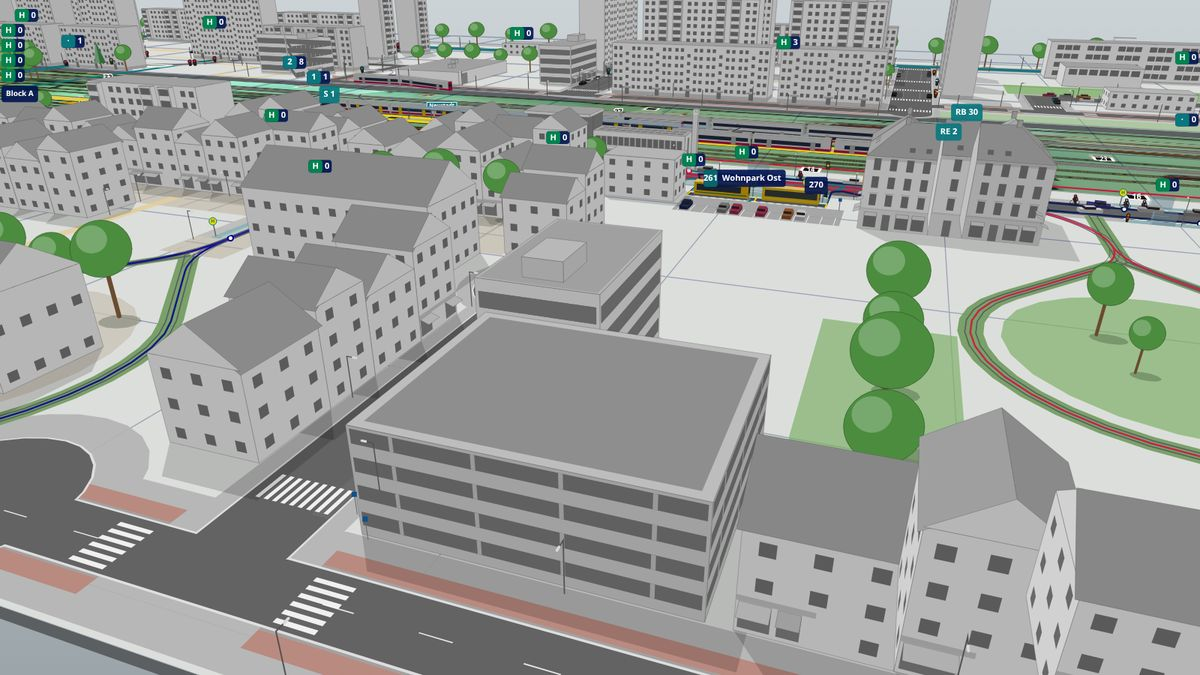
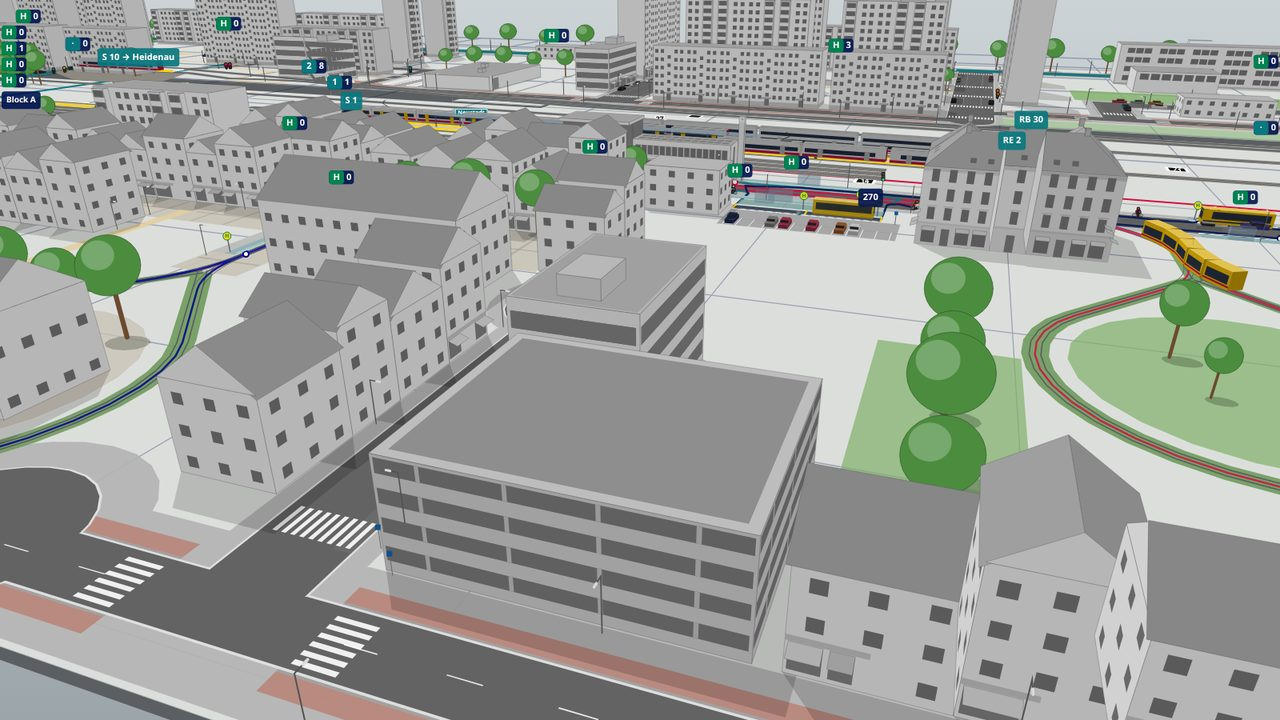
Stage: gauges show a change, timed decisions count down, crisp virtual flyover close-ups; the guide
Claude-Session: https://claude.ai/code/session_0174Gi62MbVaAfdWYGMbT6zt

diff --git a/web/game/play/play.js b/web/game/play/play.js
@@ -23,7 +23,7 @@ const saveKey = (id) => `arail.play.${id}`;
 const SETTINGS_KEY = "arail.play.settings";
 const SPEEDS = [[0, "Pause"], [1, "1×"], [5, "5×"], [20, "20×"]];
 /** The messages and flows shown; the panels are drawn every DRAW_MS, the session saved every SAVE_MS, a refusal shown for REFUSED_MS. */
-const LOG_LINES = 40, FLOW_LINES = 60, DRAW_MS = 250, SAVE_MS = 5000, REFUSED_MS = 20000;
+const LOG_LINES = 40, FLOW_LINES = 60, BUMP_MS = 1200, DRAW_MS = 250, SAVE_MS = 5000, REFUSED_MS = 20000;
 const SEVERITY = ["", "a slip", "a breach", "a danger to people"];
 
 /** The time of day (HH:MM:SS) of a shift that began at `start` ("08:00"), `t` seconds in. */
@@ -144,6 +144,8 @@ class PlayPage {
     this.focus = new Map();
     /** The decisions whose whole text is shown (their ids). */
     this.whole = new Set();
+    /** When a decision with a deadline was first shown (seat|id → the game's time), for its countdown. */
+    this.asked = new Map();
     this.speed = 1;
     this.lastSpeed = 1;
     /** The seat shown, the flow the list is filtered by, the phase the page has seen (index of the session's plan). */
@@ -513,6 +515,9 @@ class PlayPage {
     this.drafts.clear();
     this.refused.clear();
     this.picked.clear();
+    this.focus.clear();
+    this.whole.clear();
+    this.asked.clear();
     this.setSpeed(1);
     // what happens in the session is drawn with the next frame
     session.on(() => {
@@ -731,6 +736,8 @@ class PlayPage {
       tables: h("div", { class: "play-tables" }),
       score: h("div", { class: "play-score" }),
       log: h("div", {}),
+      /** The gauges' values as shown last, and until when one that changed shows it. */
+      gauged: new Map(),
     };
     p.desk = h("dialog", { class: "play-dialog play-desk", "aria-labelledby": `desk-${seat.id}` },
       h("div", { class: "play-dialog-head" }, p.deskTitle, h("button", { class: "btn small", type: "button", onclick: () => p.desk.close() }, "Close")),
@@ -774,8 +781,14 @@ class PlayPage {
     const view = this.view(g), de = this.roles.get(seat.role)?.name_de, name = this.seatName(seat.id);
     const state = !g ? "Not at work in this phase. Its game has not begun yet." : !active ? "Not at work in this phase. This is its last state." : g.over ? `This game is over: ${g.over}` : mine ? "" : "The computer plays this seat. You can watch it, or take over.";
 
-    morph(p.gauges, view.figures.map((f) => h("div", { class: ["ok", "warn", "bad"].includes(f.tone) ? `tone-${f.tone}` : "" },
-      h("dt", {}, f.label), h("dd", {}, typeof f.value === "number" ? num(f.value) : String(f.value ?? "–"), f.unit ? ` ${f.unit}` : null))));
+    // a gauge whose value has just changed shows it for a moment (BUMP_MS)
+    const now = performance.now();
+    morph(p.gauges, view.figures.map((f) => {
+      const value = `${typeof f.value === "number" ? num(f.value) : String(f.value ?? "–")}${f.unit ? ` ${f.unit}` : ""}`, was = p.gauged.get(f.label);
+      if (was && was.value !== value) was.until = now + BUMP_MS;
+      p.gauged.set(f.label, { value, until: was?.until ?? 0 });
+      return h("div", { class: `${["ok", "warn", "bad"].includes(f.tone) ? `tone-${f.tone}` : ""}${p.gauged.get(f.label).until > now ? " bump" : ""}` }, h("dt", {}, f.label), h("dd", {}, value));
+    }));
 
     p.sketch.hidden = !view.sketch;
     if (view.sketch) this.sketch(seat, p, view.sketch, can);
@@ -916,6 +929,9 @@ class PlayPage {
   decision(seat, d, can) {
     const shift = this.session.phase.kind === "shift", label = (id) => d.options.find((o) => o.id === id)?.label ?? "";
     const key = `${seat.id}|${d.id}`, whole = this.whole.has(key);
+    // how much of its time is left, from when it was first shown
+    if (shift && d.deadline != null && !this.asked.has(key)) this.asked.set(key, seat.game.t);
+    const t0 = this.asked.get(key), share = shift && d.deadline != null && d.deadline > t0 ? Math.max(0, Math.min(1, (d.deadline - seat.game.t) / (d.deadline - t0))) : null;
     let left = "";
     if (shift && d.deadline != null) left = `${Math.max(0, Math.ceil(d.deadline - seat.game.t))} s left${d.fallback ? `, then: ${label(d.fallback)}` : ""}`;
     else if (!shift) left = `If you skip it: ${label(d.fallback ?? d.options[0]?.id)}`;
@@ -923,6 +939,7 @@ class PlayPage {
       h("h5", {}, d.title),
       h("p", { class: "text" }, whole ? d.text ?? "" : lead(d.text), " ",
         hasMore(d.text) ? h("button", { class: "play-why", type: "button", "aria-expanded": String(whole), onclick: () => { this.whole[whole ? "delete" : "add"](key); this.draw(true); } }, whole ? "Less" : "More") : null),
+      share != null ? h("div", { class: `vn-countdown${share < 0.34 ? " low" : ""}`, "aria-hidden": "true" }, h("i", { style: { width: `${Math.round(share * 1000) / 10}%` } })) : null,
       h("p", { class: "hint" }, left),
       can ? h("div", { class: "row play-options-row" }, d.options.map((o) => h("button", { class: "btn", type: "button", onclick: () => this.decide(seat.id, d.id, o.id) }, o.label, o.hint ? h("small", {}, ` (${o.hint})`) : null)))
         : h("ul", { class: "play-options" }, d.options.map((o) => h("li", {}, o.label))),

diff --git a/web/architecture/models/games.js b/web/architecture/models/games.js
@@ -597,7 +597,7 @@ export const GAMES = [
       operations: ["photoOf(place, base)", "placeFigure(place, base, options) — the photo with its caption", "factChips(facts, label)", "showPlace(scene, place, base) — the head of a page shows another place"],
     }, {
       name: "PlayPage", file: "web/game/play/play.js", kind: "class", role: "Chooses a mission and its seats, runs the session, draws its games and flows, shows the result.",
-      attributes: ["session: Session — the session being played", "focus: Map — the decision in focus per seat", "whole: Set — the decisions shown with their whole text", "mission: object", "choice: object — the mission chosen: who plays each seat, the seed", "tab: string — the seat shown", "picked: Map — what is chosen in a seat's sketch", "speed: number — simulated seconds per second in a shift", "screen: string — choose, play or result"],
+      attributes: ["session: Session — the session being played", "focus: Map — the decision in focus per seat", "asked: Map — when a decision with a deadline was first shown, for its countdown", "whole: Set — the decisions shown with their whole text", "mission: object", "choice: object — the mission chosen: who plays each seat, the seed", "tab: string — the seat shown", "picked: Map — what is chosen in a seat's sketch", "speed: number — simulated seconds per second in a shift", "screen: string — choose, play or result"],
       operations: ["load() — the missions of missions.json and the role catalogue's names", "choose(id)", "open(doc)", "card(doc, no) — a mission as a level: photo, number, hook, facts, briefing", "setup() — the seats, the seed, what a seat must be told, the wiring", "wiringTable(doc, m)", "told() — the mission with what the seats were told", "leave() — the session shown is dropped: its games give back what they hold elsewhere", "back() — the page shown again from the browser's cache: a session whose world elsewhere was given back returns to its mission's start, with a note", "start()", "resume() — the saved session, played again from its record", "begin(session)", "sync() — after time or a move: a new phase, the end", "entered() — a phase has begun", "finish()", "save()", "draw(force)", "clock()", "strip() — the round's phases", "tabs()", "look(seatId, id) — put a decision in focus", "openDesk(seatId, part) — a seat's desk, a dialog: role, moves, tables, score, messages", "openFlows() — what the roles give each other, a dialog", "chapter(over, title, under) — a phase's name over the whole screen for a moment", "select(id, focus)", "panel(seat)", "seat(seat, force) — a seat's figures, sketch, decisions, moves, tables, score, messages", "sketch(seat, p, sk, can) — the game's picture as SVG; what has a menu can be chosen", "shape(it) — a line, box, dot, text or tag", "pick(seatId, id) — choose an item of the sketch", "pickMove(seatId, id, m) — a move from the chosen item's menu", "decision(seat, d, can)", "moves(seat, p, actions, can)", "form(seat, a, key, ids) — a move as a form of its fields", "field(f, id)", "table(t)", "flows(force) — what the roles give each other", "act(seatId, name, ...args)", "submit(seatId, form)", "decide(seatId, id, option)", "sit(seatId, by) — take a seat over, or hand it to the computer", "endTurn()", "skip() — to the end of the shift", "setSpeed(v, tell)", "result(r)", "chain(threads) — what led to what: a time line per fault, whose each stretch was, what it did", "again(fresh)", "file() — the session as a file", "frame(t)", "key(e) — P pauses"],
     }, {
       name: "play", file: "web/game/play/play.js", kind: "module", role: "Texts for times, values and a flow's payload; SVG elements for a sketch.",

diff --git a/web/game/play/play.css b/web/game/play/play.css
@@ -366,3 +366,18 @@ main[data-screen="result"] .scene { display: none; }
 .vn-question .place-label { display: block; }
 /* the game's picture leaves the photo around it in view */
 .vn-stage .play-sketch { width: 100%; max-width: 960px; justify-self: center; }
+.vn-gauges > .bump { animation: vn-bump 1.2s ease-out; }
+@keyframes vn-bump { 0% { background: var(--overlay-ok); color: var(--board); transform: scale(1.08); } 100% { background: var(--board); transform: none; } }
+.vn-gauges > .bump dt { animation: vn-bump-label 1.2s ease-out; }
+@keyframes vn-bump-label { 0% { color: var(--board); } 100% { color: var(--board-muted); } }
+@media (prefers-reduced-motion: reduce) { .vn-gauges > .bump, .vn-gauges > .bump dt { animation: none; } }
+@media (max-width: 640px) {
+  .vn-gauges { width: 100%; }
+  .vn-gauges > div { flex: 1 1 42%; min-width: 0; padding: 3px 8px 2px; }
+  .vn-gauges dd { font-size: .95rem; }
+  .vn-tools .btn { flex: 1 1 auto; }
+}
+/* a decision with a deadline: its time runs out as a bar */
+.vn-countdown { height: 6px; border-radius: 3px; background: var(--board-2); overflow: hidden; max-width: 420px; }
+.vn-countdown i { display: block; height: 100%; background: var(--overlay-ok); transition: width .25s linear; }
+.vn-countdown.low i { background: var(--board-warn); }

diff --git a/web/game/places.js b/web/game/places.js
@@ -14,8 +14,9 @@
  */
 
 /**
- * The photos are close-ups in web/game/places/: cut from the lab's photos, or, where everything in
- * view is virtual (trains, town), taken in the flyover (their names end in -fly).
+ * The photos are close-ups in web/game/places/: cut from the lab's photos, or taken in the flyover
+ * with everything in view virtual (trains, town; drawn without the table's photo, which blurs up
+ * close): their names end in -fly.
  * @type {Place[]}
  */
 export const PLACES = [

diff --git a/docs/games.md b/docs/games.md
@@ -252,14 +252,35 @@ A game's page is not a form with a manual on top. Three rules hold for every pag
   the terminal, the station forecourt, the town at night), and every mission names one. Its photo
   with its name is in the head of each page (the scene), on every mission's card, on every seat to
   choose and in every seat while a mission is played. The photos are close-ups in
-  `web/game/places/`: cut from the lab's photos, or taken in the flyover where everything in view
-  is virtual (trains, the town); the flyover blurs the table's photo when it comes close.
+  `web/game/places/`: cut from the lab's photos, or taken in the flyover with everything in view
+  virtual (trains, the town), drawn without the table's photo, which blurs when the camera comes close.
 - **It looks like a game.** Missions are numbered levels on the board's dark blue, chosen with
-  "Take a seat". Text stands on the board's colour beside a photo, never on it, so it stays
-  readable whatever the photo shows.
+  "Take a seat"; the mission chosen has the screen to itself: its seats as pictures to take, and
+  Play. Text stands on the board's colour beside a photo, never on it, so it stays readable
+  whatever the photo shows.
+- **Playing is a stage, not a dashboard.** The seat you play is a scene: the photo of its place
+  fills it, the game's figures are gauges on it (one that changes shows it for a moment), and the
+  game's picture, if it has one, is the control desk in the middle (the signaller's panel, the
+  dispatcher's district: what can be chosen in it is a button). At the bottom somebody speaks, as in
+  a visual novel: a portrait, a name, what they ask, and the choices as large buttons. One decision
+  at a time; the others wait as their titles. A phase begins with its name over the whole screen;
+  the seats are the cast, a face each.
+- **Somebody asks.** A decision is asked by the person its text names ("E. Kiebitz, the asset
+  responsible (ALV), proposes …"), else by the game's own counterpart (`GAME_CAST` in
+  `web/game/cast.js`: the train dispatcher on the line, the team leader, the coalition partner's
+  rapporteur). The portraits are **placeholders**, silhouettes in `web/game/cast/` (office, suit,
+  high-visibility vest, uniform, headset): put a picture there and name it in `PORTRAITS` to
+  replace one.
+- **The numbers are a pop-up.** The tables, the score, the messages and the moves as forms are a
+  seat's desk, a dialog opened from the stage; what the roles give each other is another; after the
+  session, the full report. The result itself is a verdict on the stage: the score, passed or not,
+  the cast with their scores, a question to take along.
+- **Short by rule.** A long text shows its lead, its first sentence (`lead` in
+  `web/game/short.js`, at most 22 words), and the rest behind More.
 
-A new game adds its place to `GAME_PLACES`, a new mission its `hook` and `place`;
-`tests/js/game-places.test.js` checks that none is missing and that every photo exists.
+A new game adds its place to `GAME_PLACES` and who asks in it to `GAME_CAST`, a new mission its
+`hook` and `place`; `tests/js/game-places.test.js` and `tests/js/game-cast.test.js` check that none
+is missing and that every picture exists.
 
 ## Where the games are
 

diff --git a/changes/game-stage.changed.md b/changes/game-stage.changed.md
@@ -1,0 +1,2 @@
+- **Playing a mission is a stage, not a dashboard**: the seat you play is a scene on the photo of the place where its role works, with the game's figures as gauges and its picture (the signaller's panel, the dispatcher's district) as the control desk. Somebody asks each decision, as in a visual novel: a portrait, a name, the question in a line, the choices as large buttons, one decision at a time. A phase begins with its name over the whole screen; the seats are the cast. The tables, the score, the messages, the moves as forms, the flows between the roles and the full report are dialogs, opened when wanted; the result is a verdict with the score and a question to take along. The mission chosen has the screen to itself: its seats as pictures, and Play. Long texts show their first sentence, the rest behind More.
+- **Placeholder portraits**: who asks is drawn as a silhouette (`web/game/cast/`: office, suit, high-visibility vest, uniform, headset) until there are pictures; `web/game/cast.js` says who asks in each game.
